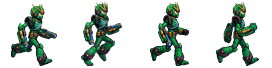
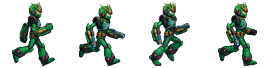
fix(kawagael): ordem da corrida f0,f1,f2,f4

diff --git a/tools/build_kawagael_run.py b/tools/build_kawagael_run.py
@@ -22,7 +22,7 @@ OUT = Path("characters/ranged/kawagael/KawagaelRun.png")
 # Ordem de exibição no ciclo (nomes das subpastas em _raw) — FONTE ÚNICA DA VERDADE.
 # A sequência de GERAÇÃO no PixelLab (f0..f4) não é a ordem boa de animação.
 # Frames presentes em _raw que NÃO estiverem aqui são ignorados (ex: f3 removido).
-FRAME_ORDER = ["f1", "f2", "f4", "f0"]
+FRAME_ORDER = ["f0", "f1", "f2", "f4"]
 
 
 def trim(img: Image.Image) -> Image.Image:
